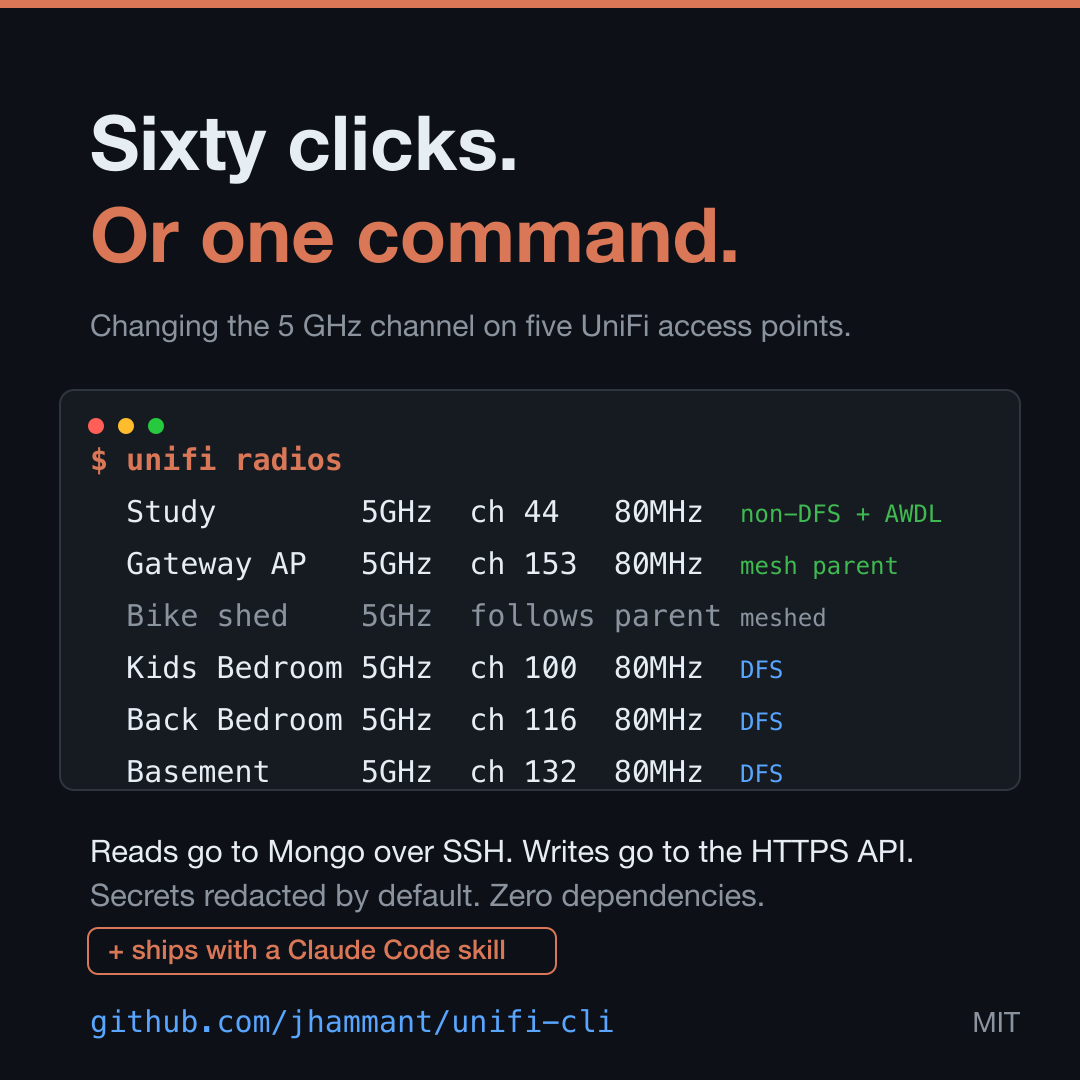
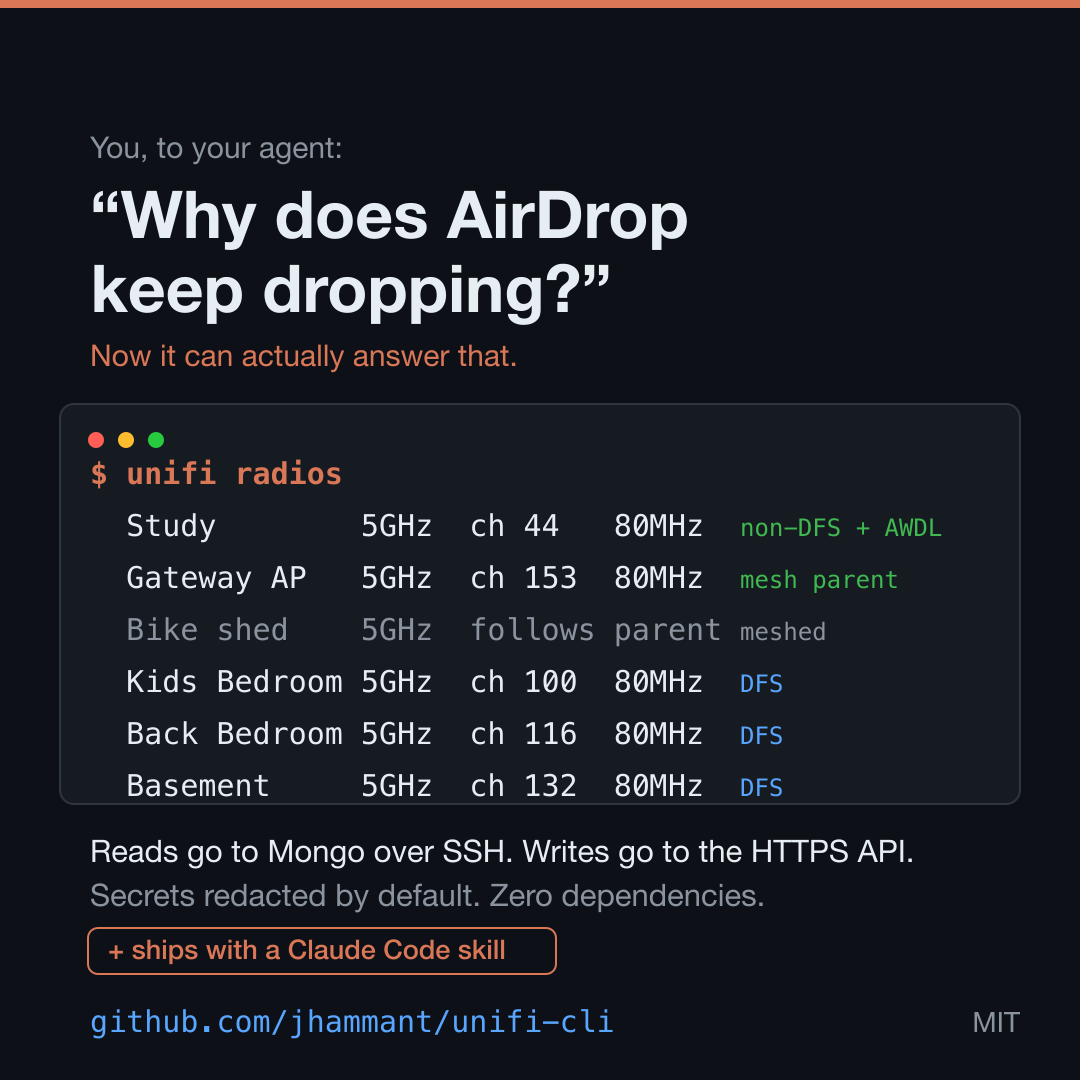
docs: lead with why you'd use it, not what it replaces
Reframes the project as a way to integrate a UniFi network into Claude
Code and other agents, with the worked example (why AirDrop drops) up
front instead of the click-count comparison.

Changed region(s): [[0.0611, 0.0917, 0.7639, 0.7639], [0.4278, 0.4583, 0.8861, 0.7639]]

diff --git a/README.md b/README.md
@@ -1,15 +1,39 @@
 # unifi-cli
 
-Changing the 5 GHz channel on five access points through the UniFi web UI takes
-about sixty clicks. Every one of them is a single command here.
+A way to integrate UniFi networks into Claude Code — or any other agent, script,
+or shell.
 
-The bigger problem is that the UI won't show you most of what your controller
-already knows. Radio policy, PMF mode, fast-roaming state, the RF policy that
-quietly overrides the channel you just pinned — all of it is sitting in the
-controller's Mongo database, and none of it has a page in the web app.
+## Why you'd use it
 
-`unifi-cli` is a single-file Python CLI that reads the whole database and writes
-through the official API.
+Your coding agent can read your codebase, run your tests and fix your CI. It
+cannot tell you why AirDrop stopped working, which access point your laptop is
+actually on, or what changed when the wifi got slow. It has no way to see your
+network.
+
+This gives it one. Point it at your controller and the network becomes something
+you ask questions of:
+
+> **"Why does Universal Control keep dropping?"**
+> It reads every radio, finds the access point serving your Macs sitting on a DFS
+> channel, and tells you Apple's peer-to-peer stack is banned there. Nothing in
+> the web UI would have told you that.
+
+> **"Which ports are open to the internet?"** · **"Is IPS actually enabled, or
+> just configured?"** · **"What's my slowest client and which AP is it on?"**
+
+> **"Move the study AP to channel 44."**
+> Done — with the whole-object `PUT` handled correctly, which is the mistake that
+> otherwise wipes the rest of the config.
+
+Two reasons it's a tool rather than a thin API wrapper. The controller knows far
+more than it renders: radio policy, PMF mode, fast-roaming state, the RF policy
+quietly overriding the channel you just pinned — none of that has a page in the
+web app, and all of it is readable here. And the failure modes have to travel
+*with* the tool, or an agent walks straight into them — which is why the
+[bundled skill](#claude-code-skill) carries them.
+
+It's a single file of Python with no dependencies, so "install" means copying it
+somewhere.
 
 ## Two transports, deliberately
 
